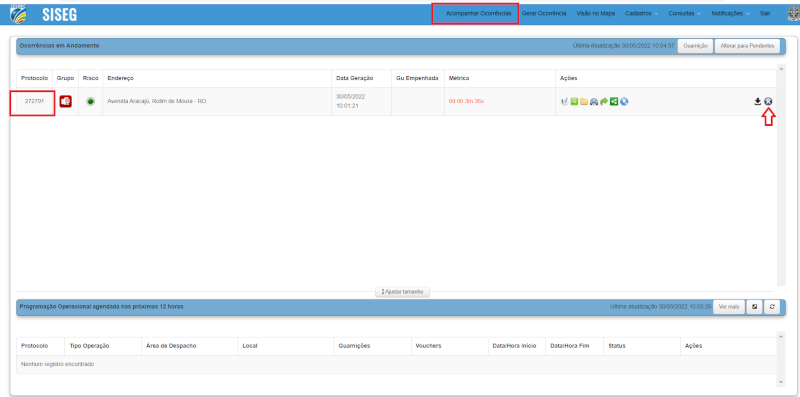
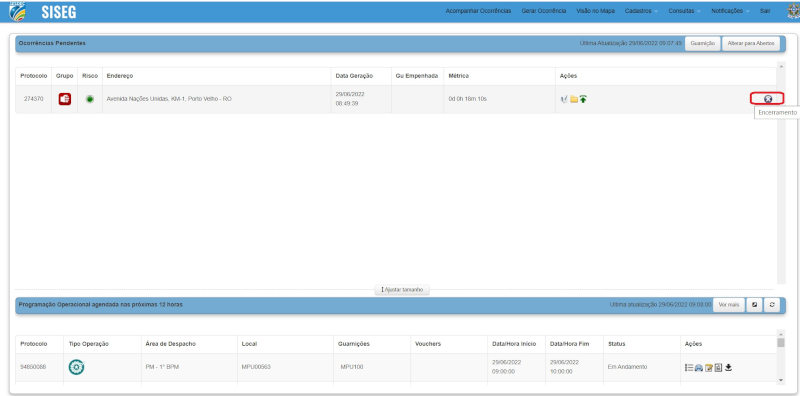
encerramento

diff --git a/mpu.html b/mpu.html
@@ -132,7 +132,9 @@
             </p>
             <p>
               <strong>ENCERRAMENTO</strong> <br>
-            Após cadastrar a ocorrência ir para o menu Acompanhar Ocorrências, localizar o protocolo correspondente e clicar no ícone <img src="imagens/MPU/img24.png" alt="">para fazer o encerramento. <br>
+            Após cadastrar a ocorrência ir para o menu Acompanhar Ocorrências, localizar o protocolo correspondente e clicar em "Alterar para pendente" <br> <img src="imagens/MPU/img69.png" alt=""> <br>
+            Após acessar o menu Alterar para pendente <br> <img src="imagens/MPU/img70.jpg" alt=""> <br> 
+            clicar no ícone <img src="imagens/MPU/img24.png" alt="">para fazer o encerramento. <br>
             <img src="imagens/MPU/img25.png" alt="">
                         </p>
                         <p>

diff --git a/style22.css b/style22.css
@@ -29,6 +29,7 @@ h2 {
 }
 p{
     text-align: justify;
+    line-height: 1.5;
 }
 
 li {
